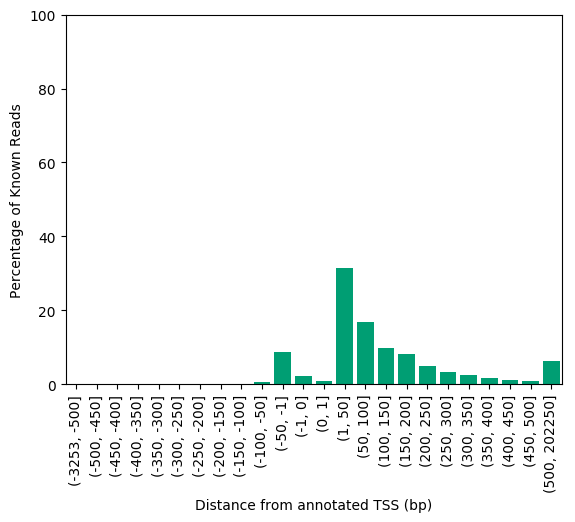
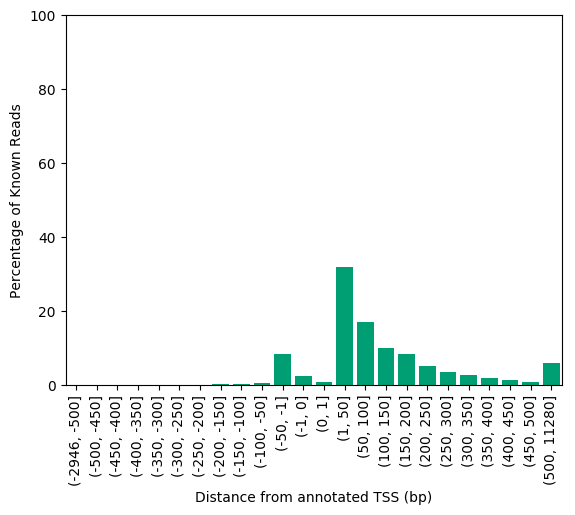
removed exonic transcripts

diff --git a/end_analysis/plot_end_dists.py b/end_analysis/plot_end_dists.py
@@ -101,6 +101,9 @@ def main():
 	df = df.loc[~df.chrom.str.contains('ERCC')]
 	df = df.loc[df.chrom != 'chrM']
 
+	# only look at multiexonic things, which are transcripts
+	# we are more confident about
+	df = df.loc[df.n_exons > 1]
 
 	# pair it down only to the columns we need
 	df = df[['read_name', 'read_start', 'read_end', 'annot_transcript_id', 'strand']]
